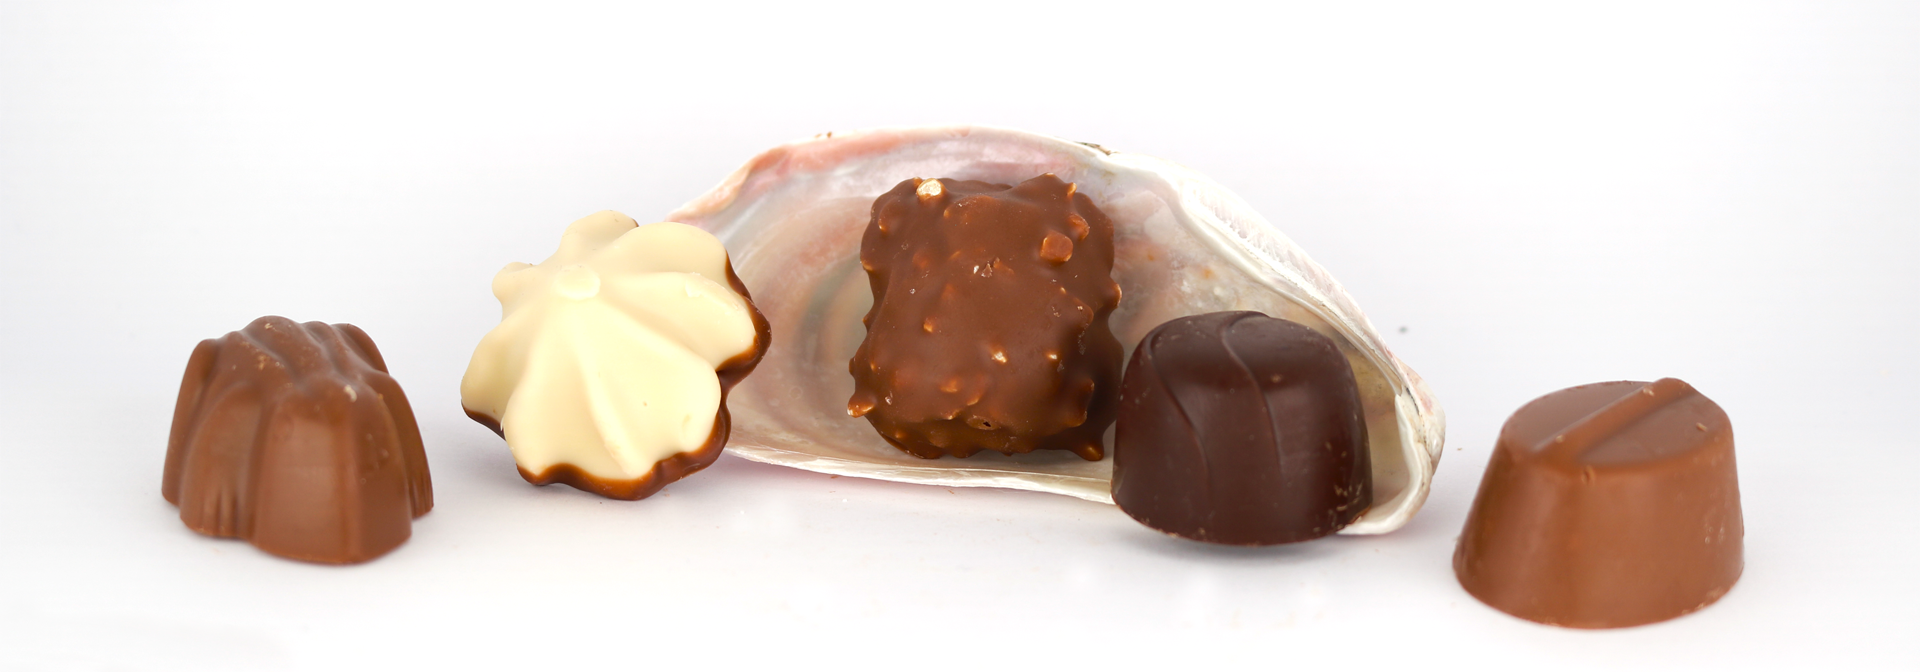
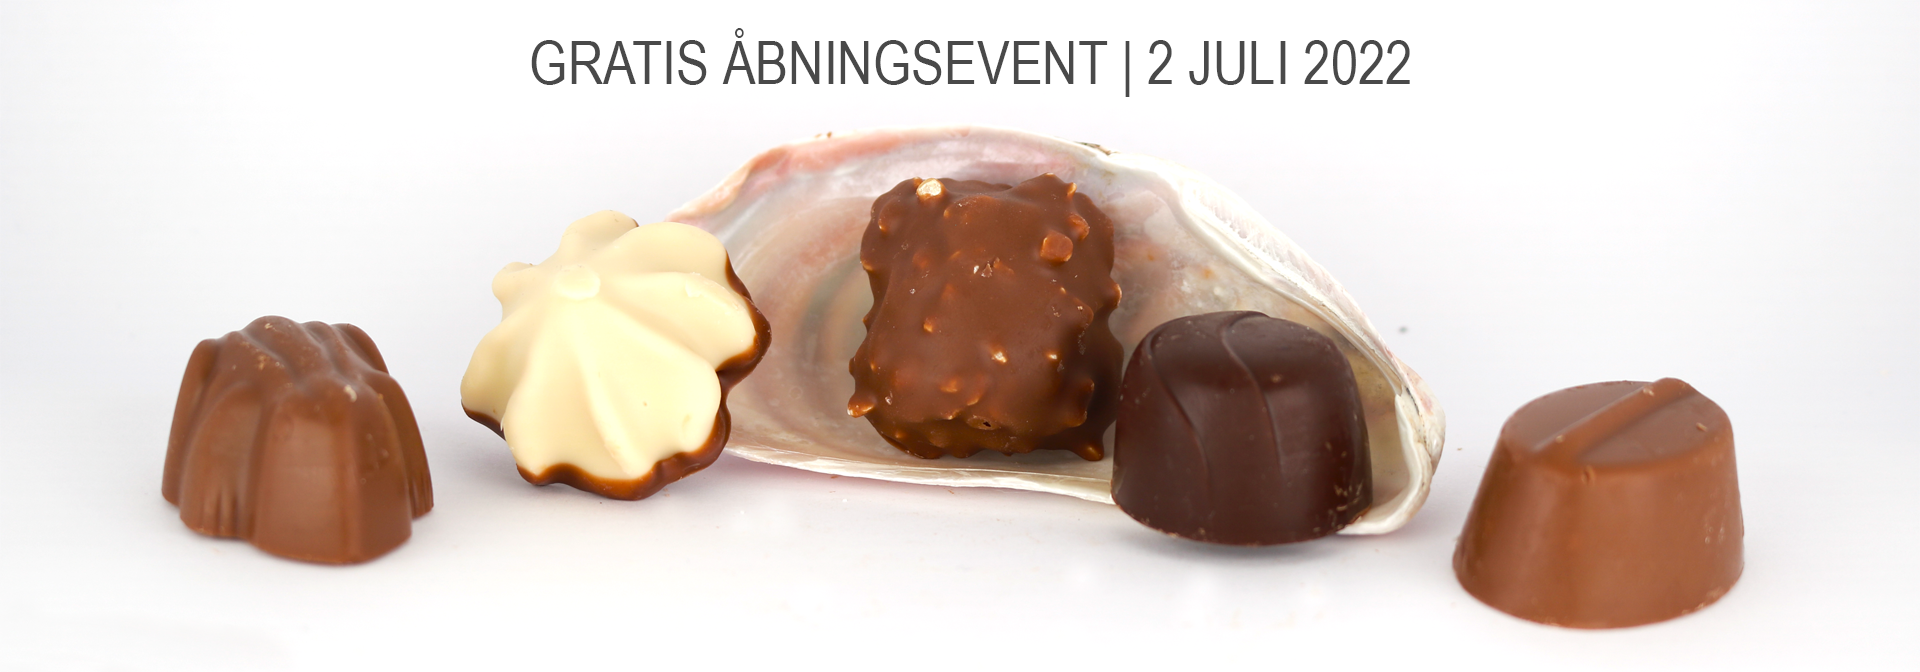
Event-side og forside med karrussel-billede til event er lavet.

Changed region(s): [[0.2812, 0.0625, 0.75, 0.125]]

diff --git a/event.php b/event.php
@@ -1,0 +1,81 @@
+<!DOCTYPE html>
+<html lang="da">
+
+<head>
+
+    <meta charset="utf-8">
+
+    <title> Åbningsevent 2022 </title>
+    <meta name="description" content="Chocolate Club holder stort åbent hus arrangement 2 juli 2022, hvor du og alle dem du kender kan blive chocolatiers for en dag.">
+    <meta name="robots" content="All">
+    <meta name="author" content="Catja Kim Nielsen & Susana Buch">
+    <meta name="copyright" content="Information om copyright">
+    <meta name="viewport" content="width=device-width, initial-scale=1">
+
+    <meta property="og:title" content="Chocolate Club | Åbningsevent">
+    <meta property="og:type" content="website">
+    <meta property="og:url" content="https://www.catjakimnielsen.dk/Eksamner/2.semester2.0/event.php">
+    <meta property="og:image" content="https://www.catjakimnielsen.dk/Eksamner/2.semester2.0/2jordb%C3%A6rtr%C3%B8ffel.png">
+    <meta property="og:description" content="Chocolate Club holder stort åbent hus arrangement 2 juli 2022, hvor du og alle dem du kender kan blive chocolatiers for en dag.">
+    <meta property="og:locale" content="da.DK">
+
+    <link href="css/bootstrap.css" rel="stylesheet" type="text/css">
+    <link href="css/styles.css" rel="stylesheet" type="text/css">
+
+    <style> body{background-color: rgba(248,242,239,0.89)} </style>
+    <style> a:link{color: black; text-decoration: none;} a:hover{text-decoration: underline} </style>
+
+    <link href="https://fonts.googleapis.com/css2?family=Gentium+Plus:ital@0;1&family=Pathway+Gothic+One&display=swap" rel="stylesheet">
+
+</head>
+
+
+<body>
+
+    <?php include "includes/header.php"; ?>
+
+
+    <section class="container mt-5">
+        <div class="row mb-5">
+            <div class="col-12 mt-2 mb-2 text-center">
+                <h1 class="overskrift"> ÅRETS CHOKOLADEEVENT 2022 </h1>
+            </div>
+            <div class="col-12 col-xl-12 mt-2 mb-2 d-sm-none">
+                <img src="image/2jordbærtrøffel.png" alt="Mørk chokolade med jordbærtrøffel">
+            </div>
+            <div class="col-12 col-sm-12 col-xl-12 mt-2 mb-4 pt-4 text-center">
+                <p class="tekst"> Elsker du også chokolade? Så er vores åbent hus arrangement helt sikker noget for dig og alle du kender! </p>
+                <br>
+                <p class="tekst"> Du kan blive en ægte chocolatier for en dag og lave præcis de chokolader som du syntes smager aller bedst - uanset om du er til ren chokolade, fyldte chokolader eller konfekt.</p>
+                <br><br>
+                <p class="tekst text-decoration-underline">Vi ses i vores chokoladeværksted</p>
+                <p class="tekst"> 2 JULI 2022 </p>
+                <p class="tekst"> KL. 10.00 - 17.00 </p>
+                <p class="tekst"> SILKEGADE 7, 1113 KØBENHAVN </p>
+                <br>
+                <p class="tekst"> Kig efter vores logo på facaden, så er du ikke i tvivl om, at du er gået rigtigt! </p>
+                <br><br>
+                <p class="tekst"> Hvis du har spørgsmål eller andet er du velkommen til at kontakte os på tlf. +45 1717 7171 eller på kontakt@chocolateclub.dk </p>
+            </div>
+            <div class="col-12 col-sm-6 col-xl-4 mt-2 mb-2">
+                <img src="image/2marcipan_med_appelsin.png" alt="Hvid chokolade med marcipan og appelsin">
+            </div>
+            <div class="col-12 col-sm-6 col-xl-4 mt-2 mb-2 d-none d-xl-block">
+                <img src="image/2chokolader.png" alt="Mørk chokolade med marcipan">
+            </div>
+            <div class="col-12 col-sm-6 col-xl-4 mt-2 mb-2 d-none d-sm-block">
+                <img src="image/2jordbærtrøffel.png" alt="Mørk chokolade med jordbærtrøffel">
+            </div>
+        </div>
+    </section>
+
+
+    <?php include "includes/footer.php"; ?>
+
+
+    <script src="node_modules/bootstrap/dist/js/bootstrap.bundle.min.js"></script>
+
+</body>
+
+
+</html>

diff --git a/index.php b/index.php
@@ -47,13 +47,13 @@
 
         <div class="carousel-inner">
             <div class="carousel-item active">
+                <a href="event.php"> <img src="image/ChocolateClub_Slider_5.chokolader.png" class="d-block w-100" alt="5 chokolader i en skal - Åbningsevent" > </a>
+            </div>
+            <div class="carousel-item">
                 <img src="image/ChocolateClub_Slider_3chokolader.png" class="d-block w-100" alt="5 chokolader i æske">
             </div>
             <div class="carousel-item">
                 <img src="image/ChocolateClub_Slider_2chokolader.png" class="d-block w-100" alt="Fristende chokolader med marcipan">
-            </div>
-            <div class="carousel-item carousel-dark">
-                <img src="image/ChocolateClub_Slider_5chokolader.png" class="d-block w-100" alt="5 chokolader i en skal">
             </div>
         </div>
 
